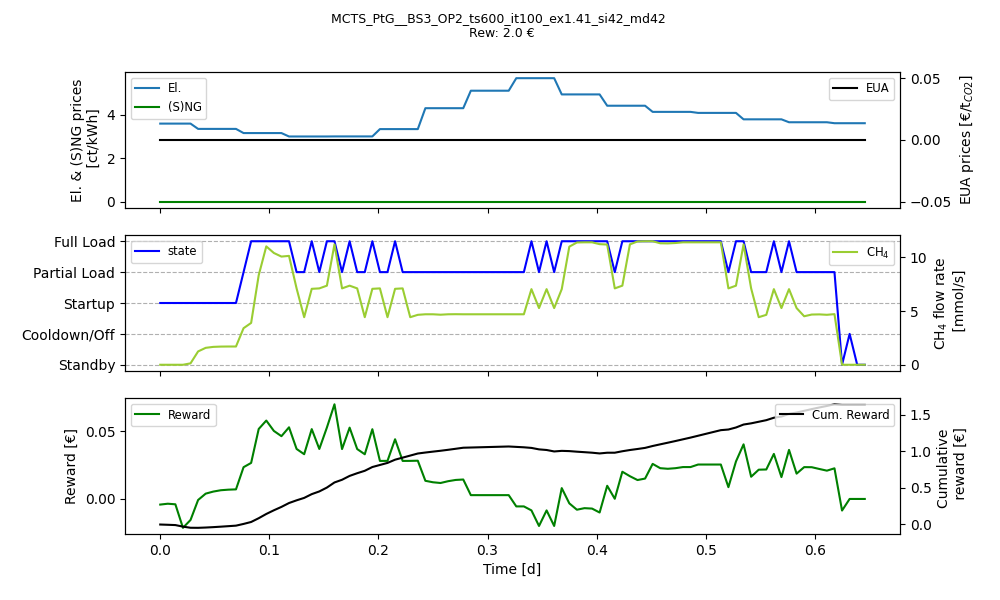
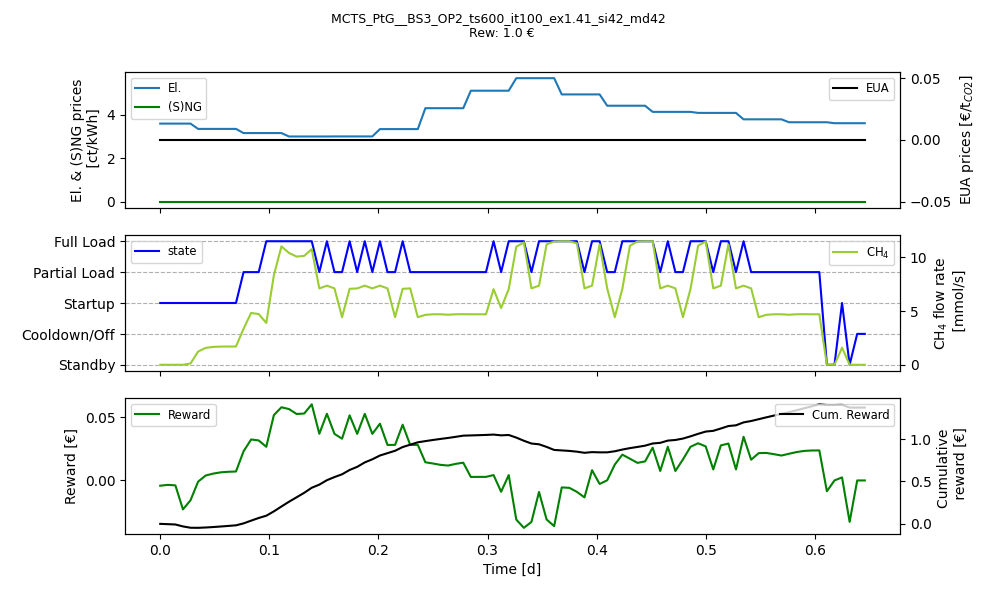
update 09052025

diff --git a/mcts_main.py b/mcts_main.py
@@ -78,7 +78,7 @@ def main():
     # ----------------------------------------------MCTS Validation-----------------------------------------------
     print("Run MCTS on the validation set... >>>", str_id, "<<< \n")
 
-    obs = env_test_post.reset()
+    obs, _ = env_test_post.reset()
     timesteps = Preprocess.eps_sim_steps_test
     stats = np.zeros((timesteps, len(EnvConfig.stats_names)))
     stats_dict_test = {}
@@ -91,15 +91,11 @@ def main():
         
         if i % store_interval == 0 and i != 0: mcts.store_tree()  # Store the tree structure every store_interval steps
 
-        Meth_State = obs[0]['METH_STATUS']  # Get the current Meth_State from the observation
-        print("STATUS_METH", Meth_State, i)
-
-
-        action = mcts.search(env_test_post,i, Meth_State=Meth_State, init_el_price=obs[0]['Elec_Price'][0], init_pot_reward=pot_reward)  # Perform MCTS search to get the best action
+        action = mcts.search(env_test_post, Meth_State=obs['METH_STATUS'], init_el_price=obs['Elec_Price'][0], init_pot_reward=pot_reward)  # Perform MCTS search to get the best action
         
         obs, _ , _ , terminated, info = env_test_post.step(action)
         pot_reward = info['Pot_Reward']
-        print(f' Pot_Rew {pot_reward}, Load_Id {info["Part_Full"]}, Meth_State {info["Meth_State"]}, Rew {info["reward [ct]"]}, Action {action}')
+        print(f' Pot_Rew {pot_reward/6}, Load_Id {info["Part_Full"]}, Meth_State {info["Meth_State"]}, Rew {info["reward [ct]"]}, Action {action}')
         print(f"Scenario {EnvConfig.scenario}, Iterations {mcts.iterations}, exploration_weight {mcts.exploration_weight}, total_steps {mcts.total_steps}, maximum_depth {mcts.maximum_depth}")
 
         # Store data in stats

diff --git a/src/ptg_config_mcts.py b/src/ptg_config_mcts.py
@@ -164,7 +164,7 @@ class MCTS:
             "action": node.action,
             "depth": node.depth,
             "visits": node.visits,
-            "total_reward": node.total_reward,
+            "total_reward_p_visits": node.total_reward/node.visits,
             "Meth_State": self.Meth_State,
             "init_el_price": self.init_el_price,
             "init_pot_reward": self.init_pot_reward,
@@ -175,7 +175,7 @@ class MCTS:
     def _save_tree_to_csv(self):
         # Save the logged tree structure to a CSV file
         with open(self.path + self.path_log + "tree_structure.csv", "w", newline="") as csvfile:
-            fieldnames = ["node_id", "parent_id", "action", "depth", "visits", "total_reward", "Meth_State", "init_el_price", "init_pot_reward"]
+            fieldnames = ["node_id", "parent_id", "action", "depth", "visits", "total_reward_p_visits", "Meth_State", "init_el_price", "init_pot_reward"]
             writer = csv.DictWriter(csvfile, fieldnames=fieldnames)
             writer.writeheader()
             writer.writerows(self.tree_log)
